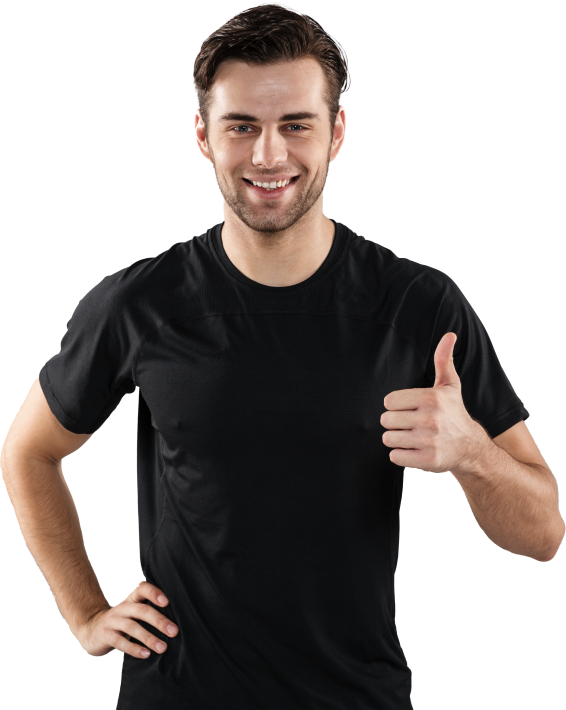
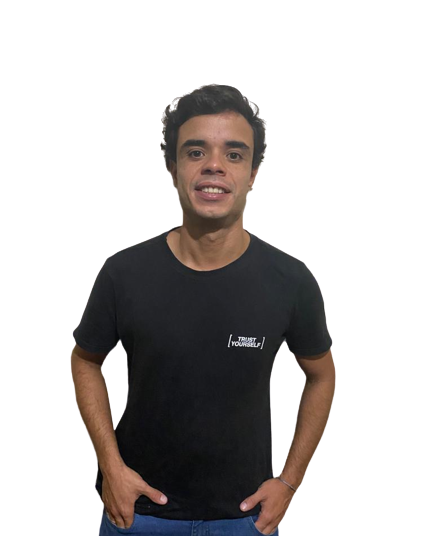
plus one commit

diff --git a/src/container/Header/Header.jsx b/src/container/Header/Header.jsx
@@ -2,9 +2,11 @@ import { motion } from 'framer-motion';
 import React from 'react';
 import { AiOutlineDownload } from 'react-icons/ai';
 import about01 from '../../assets/cv_english.pdf';
+import VideoOverlay from '../../components/VideoOverlay';
 import { images } from '../../constants';
 import { useTheme } from '../../hooks/useTheme';
 import { AppWrap } from '../../wrapper';
+
 
 import './Header.scss';
 
@@ -29,6 +31,7 @@ const Header = () => {
         transition={{ duration: 0.5 }}
         className="app__header-info"
       >
+             <VideoOverlay/>
         <div className="app__header-badge">
           <div className="badge-cmp app__flex">
             <span>👋</span>
@@ -42,6 +45,7 @@ const Header = () => {
             <div className="tag-cmp app__flex">
               <p className="p-text">Web Developer</p>
               <p className="p-text">Mobile developer</p>
+              <p className="p-text">Full stack</p>
             </div>
 
           <div className="tag-cmp app__flex" style={{ display: 'flex', justifyContent:'flex-start', maxWidth:120, marginLeft:12}}>
@@ -75,9 +79,9 @@ const Header = () => {
         whileInView={scaleVariants.whileInView}
         className="app__header-circles"
       >
-        {[images.flutter, images.redux, images.sass].map((circle, index) => (
+        {[images.react, images.nextjs, images.android].map((circle, index) => (
           <div className="circle-cmp app__flex" key={`circle-${index}`}>
-            <img src={circle} alt="profile_bg" />
+            <img  style={{objectFit:'contain'}} src={circle=== images.nextjs && theme!== 'light'?images.nextjsNeg: circle} alt="profile_bg" />
           </div>
         ))}
       </motion.div>

diff --git a/src/container/Work/Work.jsx b/src/container/Work/Work.jsx
@@ -68,28 +68,28 @@ const Work = () => {
                 whileHover={{ opacity: [0, 1] }}
                 transition={{ duration: 0.25, ease: 'easeInOut', staggerChildren: 0.5 }}
                 className="app__work-hover app__flex"
+                onClick={()=> {window.open(work.projectLink)}}
               >
-                <a href={work.projectLink} target="_blank" rel="noreferrer">
-
+                <a onClick={(e)=> e.stopPropagation()}href={work.projectLink} target="_blank" rel="noreferrer">
                   <motion.div
                     whileInView={{ scale: [0, 1] }}
-                    whileHover={{ scale: [1, 0.90] }}
+                    whileHover={{ scale: [1, 1.25] }}
                     transition={{ duration: 0.25 }}
                     className="app__flex"
                   >
                     <AiFillEye />
                   </motion.div>
                 </a>
-                <a href={work.codeLink} target="_blank" rel="noreferrer">
+                {work.codeLink&& <a onClick={(e)=> e.stopPropagation()} href={work.codeLink} target="_blank" rel="noreferrer">
                   <motion.div
                     whileInView={{ scale: [0, 1] }}
-                    whileHover={{ scale: [1, 0.90] }}
+                    whileHover={{ scale: [1, 1.25] }}
                     transition={{ duration: 0.25 }}
                     className="app__flex"
                   >
                     <AiFillGithub />
                   </motion.div>
-                </a>
+                </a>}
               </motion.div>
             </div>
 

diff --git a/src/container/Skills/Skills.jsx b/src/container/Skills/Skills.jsx
@@ -3,14 +3,15 @@ import React, { useEffect, useState } from 'react';
 
 import ReactTooltip from 'react-tooltip';
 import { client, urlFor } from '../../client';
+import { useTheme } from '../../hooks/useTheme';
 import { AppWrap, MotionWrapper } from '../../wrapper';
 import './Skills.scss';
 
-import './Skills.scss';
 
 const Skills = () => {
   const [experiences, setExperiences] = useState([]);
   const [skills, setSkills] = useState([]);
+  const {theme} =  useTheme()
 
   useEffect(() => {
     const query = '*[_type == "experiences"]';
@@ -34,6 +35,7 @@ const Skills = () => {
           {skills.map((skill) => (
             <motion.div
               whileInView={{ opacity: [0, 1] }}
+              whileHover ={{scale: [1, 1.2] }}
               transition={{ duration: 0.5 }}
               className="app__skills-item app__flex"
               key={skill.name}
@@ -71,10 +73,9 @@ const Skills = () => {
                       <h4 className="bold-text">{work.name}</h4>
                       <p className="p-text">{work.company}</p>
                       <ReactTooltip
-                      offset={{ left: 100 }}
                       id={work.name}
                       effect="solid"
-                      arrowColor="#fff"
+                      arrowColor={theme==='dark' ?"#186559":"#313bac" }
                       className="skills-tooltip"
                     >
                       {work.desc}

diff --git a/src/constants/images.js b/src/constants/images.js
@@ -10,7 +10,9 @@ import html from '../assets/html.png';
 import javascript from '../assets/javascript.png';
 import mobile from '../assets/mobile.png';
 import mu5 from '../assets/mu5.png';
+import nextjs from '../assets/nextjs.png';
 import node from '../assets/node.png';
+import prisma from '../assets/prisma.png';
 import python from '../assets/python.png';
 import react from '../assets/react.png';
 import redux from '../assets/redux.png';
@@ -22,6 +24,8 @@ import about01 from '../assets/about01.png';
 import about02 from '../assets/about02.png';
 import about03 from '../assets/about03.png';
 import about04 from '../assets/about04.png';
+import android from '../assets/android.png';
+import nextjsNeg from '../assets/nextjs-neg.png';
 
 import circle from '../assets/circle.svg';
 import circle_dark from '../assets/circle_dark.svg';
@@ -35,6 +39,8 @@ import bolt from '../assets/bolt.png';
 import nb from '../assets/nb.png';
 import skype from '../assets/skype.png';
 import spotify from '../assets/spotify.png';
+
+import RN from '../assets/RN.png';
 
 export default {
   email,
@@ -71,4 +77,9 @@ export default {
   nb,
   skype,
   spotify,
+  nextjs,
+  android,
+  nextjsNeg, 
+  prisma,
+  RN
 };

diff --git a/src/container/Skills/Skills.scss b/src/container/Skills/Skills.scss
@@ -53,7 +53,7 @@
     }
 
     &:hover {
-      box-shadow: 0 0 25px #fef4f5;
+      box-shadow: 0 0 25px #888888;
     }
 
     @media screen and (min-width: 2000px) {
@@ -139,16 +139,21 @@
 }
 
 .skills-tooltip {
+  margin-left: -10vw  !important;
   max-width: 300px !important;
-  background-color: var(--white-color) !important;
+  background-color: var(--secondary-color) !important;
   box-shadow: 0 0 25px rgba(0, 0, 0, 0.1) !important;
   border-radius: 5px !important;
   padding: 1rem !important;
   // transform: translateX(-10px) !important;
-  color: var(--gray-color) !important;
+  color: var(--white-color) !important;
   text-align: center !important;
   line-height: 1.5 !important;
   opacity: 1 !important;
+
+  @media screen and (max-width: 900px)  {
+    margin-left: -15vw  !important;
+  }
 
   @media screen and (min-width: 2000px) {
     font-size: 1.75rem !important;

diff --git a/src/components/SocialMedia.jsx b/src/components/SocialMedia.jsx
@@ -1,19 +1,15 @@
 import React from 'react'
-import { BsInstagram, BsTwitter } from 'react-icons/bs'
-import { FaFacebookF } from 'react-icons/fa'
+import { BsGithub, BsLinkedin } from 'react-icons/bs'
 
 const SocialMedia = () => {
   return (
     <div className='app__social_wrapper'>
       <div className='app__social'>
-        <div>
-          <BsTwitter />
+        <div onClick={()=>window.open('https://github.com/gustavolemesleitebarbosa', '_blank', 'noreferrer')}>
+          <BsGithub size={80}/>
         </div>
-        <div>
-          <FaFacebookF />
-        </div>
-        <div>
-          <BsInstagram />
+        <div onClick={ ()=>window.open('https://www.linkedin.com/in/gustavo-lemes-207822132', '_blank', 'noreferrer')}>
+          <BsLinkedin />
         </div>
       </div>
     </div>

diff --git a/src/components/VideoOverlay.jsx b/src/components/VideoOverlay.jsx
@@ -1,0 +1,26 @@
+import React, { useState } from "react";
+
+export default function VideoOverlay() {
+  const [isPlaying, setIsPlaying] = useState(false);
+
+  function handleClick() {
+    setIsPlaying(true);
+  }
+
+  return (
+    <div>
+      <button onClick={handleClick}>Play Video</button>
+      {isPlaying && (
+        <div className="overlay">
+          <video controls autoPlay>
+            <source
+              src="https://youtu.be/ebXngNnCQNQ"
+              type="video/mp4"
+            />
+            Your browser does not support the video tag.
+          </video>
+        </div>
+      )}
+    </div>
+  );
+}

diff --git a/src/hooks/useTheme.js b/src/hooks/useTheme.js
@@ -22,6 +22,7 @@ export const ThemeProvider = ({ children }) => {
       document.documentElement.style.setProperty('--gray-color', theme==='dark'? '#e4e4e4' :'#6b7688' );
       document.documentElement.style.setProperty('--tertiary-color', theme==='dark'? '#186559' :'#fef4f5' );
       document.documentElement.style.setProperty('--nav-bar', theme==='dark'? 'rgba(80, 80, 80, 0.85)' :'rgba(255, 255, 225, 0.25)' );
+      document.documentElement.style.setProperty('--quartenary-color', theme==='dark'? 'rgba(255, 255, 255, 0.8)':'rgba(31, 31, 31, 0.85)' );
   }, [theme])
   
 

diff --git a/src/container/Header/Header.scss b/src/container/Header/Header.scss
@@ -98,6 +98,7 @@
     .download{
       display: flex;
       align-items: flex-start;
+      
       justify-content: flex-start;
       flex-direction: column;
       max-width: 40px;
@@ -142,8 +143,7 @@
     width: 100px;
     height: 100px;
     border-radius: 50%;
-
-    background: var(--white-color);
+    background: var(--white-color) ;
     box-shadow: 0px 0px 20px rgba(0, 0, 0, 0.1);
 
     img {
@@ -218,7 +218,7 @@
     position: absolute;
     left: 0;
     right: 0;
-    bottom: 0;
+    bottom: -22px;
     z-index: 0;
     width: 100%;
     height: 90%;

diff --git a/src/components/Navbar/Navbar.scss b/src/components/Navbar/Navbar.scss
@@ -116,7 +116,6 @@
     background: url("../../assets/bgWhite.png");
     background-color: var(--white-color);
     box-shadow: rgba(100, 100, 111, 0.3) 0px 7px 29px 0px;
-    opacity: 0.1;
     background-size: cover;
     background-repeat: repeat;
 

diff --git a/src/container/Work/Work.scss b/src/container/Work/Work.scss
@@ -113,7 +113,7 @@
     width: 50px;
     height: 50px;
     border-radius: 50%;
-    background-color: rgba(0, 0, 0, 0.5);
+    background-color: var(--quartenary-color);
     color: var(--white-color);
 
     margin: 1rem;

diff --git a/src/index.css b/src/index.css
@@ -12,6 +12,7 @@
   --brown-color: #090809;
   --white-color: #ffffff;
   --nav-bar: rgba(255, 255, 225, 0.25);
+  --quartenary-color: rgba(0, 0, 0, 0.1);
 }
 
 * {
